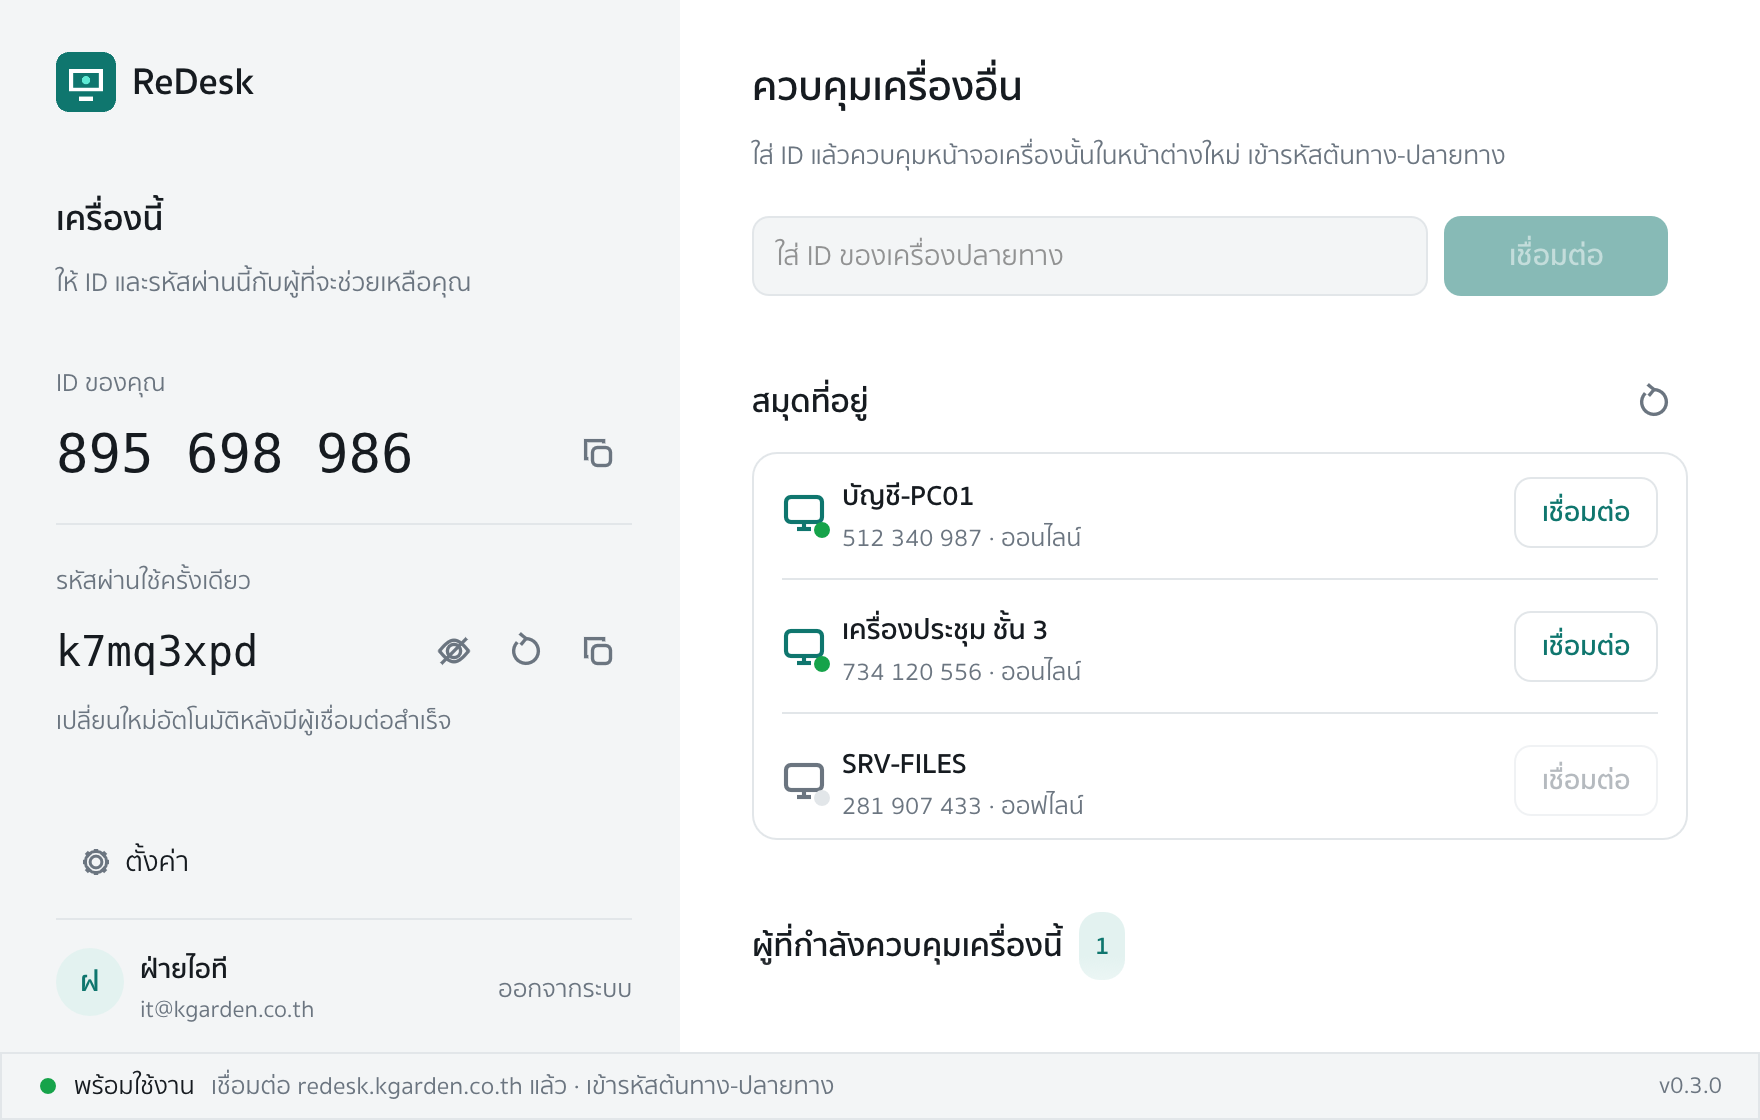
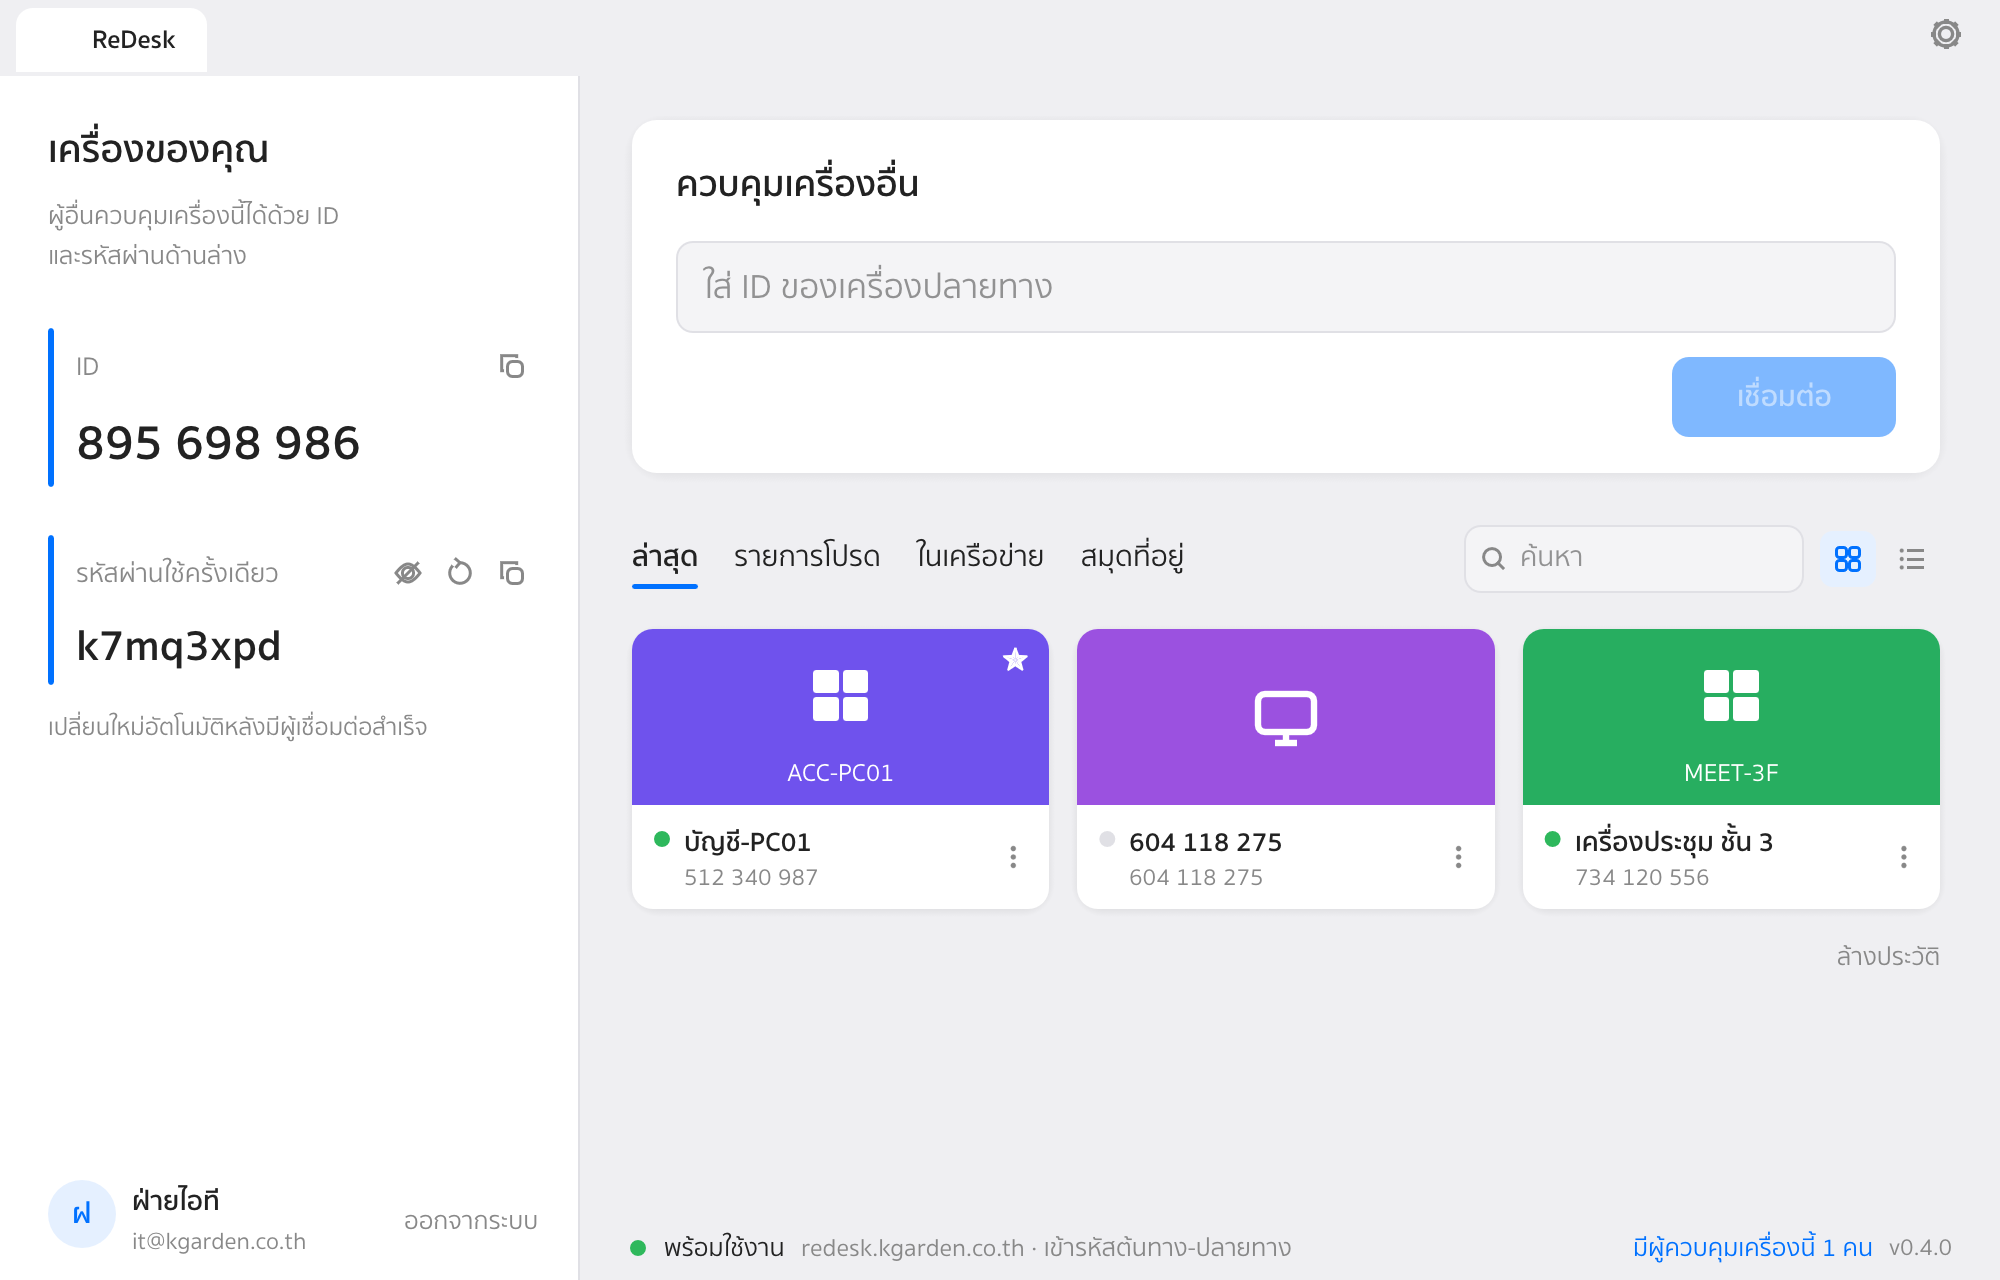
RustDesk-style UI across desktop app and web console; refresh screenshots

diff --git a/agent/src/ui.rs b/agent/src/ui.rs
@@ -383,32 +383,6 @@ fn toggle(ui: &mut Ui, on: &mut bool) -> Response {
     resp.on_hover_cursor(egui::CursorIcon::PointingHand)
 }
 
-/// Segmented control; returns true when the selection changed.
-fn segmented<T: PartialEq + Copy>(ui: &mut Ui, value: &mut T, options: &[(T, &str)], enabled: bool) -> bool {
-    let pal = Palette::of(ui);
-    let mut changed = false;
-    Frame::new().fill(pal.field).corner_radius(9).inner_margin(Margin::same(3)).show(ui, |ui| {
-        ui.spacing_mut().item_spacing.x = 2.0;
-        ui.horizontal(|ui| {
-            for (v, label) in options {
-                let selected = *value == *v;
-                let text = RichText::new(*label).font(if selected { semi(13.5) } else { FontId::proportional(13.5) });
-                let text = text.color(if !enabled { pal.muted.gamma_multiply(0.6) } else if selected { pal.fg } else { pal.muted });
-                let b = Button::new(text)
-                    .fill(if selected { pal.bg } else { Color32::TRANSPARENT })
-                    .stroke(if selected { Stroke::new(1.0, pal.line) } else { Stroke::NONE })
-                    .corner_radius(7)
-                    .min_size(vec2(0.0, 30.0));
-                if ui.add_enabled(enabled, b).clicked() && !selected {
-                    *value = *v;
-                    changed = true;
-                }
-            }
-        });
-    });
-    changed
-}
-
 fn label(ui: &mut Ui, text: &str) {
     let c = Palette::of(ui).muted;
     ui.label(RichText::new(text).size(12.5).color(c));
@@ -1774,6 +1748,11 @@ impl App {
         }
         ui.add_space(18.0);
         self.address_book(ui, agent);
+        // Without separate windows there is no connection-manager window: list sessions here.
+        if ui.ctx().embed_viewports() {
+            ui.add_space(24.0);
+            self.sessions_list(ui, agent);
+        }
     }
 
     fn book_entry(&self, id: &str) -> Option<&BookEntry> {

diff --git a/README.md b/README.md
@@ -52,7 +52,7 @@ REDESK_ADMIN_PASSWORD='change-me-now-123' make server
 
 เปิด http://localhost:21114 แล้วล็อกอิน `admin@redesk.local` (ถ้าไม่ตั้ง `REDESK_ADMIN_PASSWORD` รหัสสุ่มจะพิมพ์ใน log)
 
-**โปรแกรม ReDesk (หน้าต่าง + tray)** — แสดง ID/รหัสผ่านใช้ครั้งเดียว, สถานะ, ผู้ที่กำลังควบคุม (ตัดการเชื่อมต่อได้), กล่องอนุญาต/ปฏิเสธ และการตั้งค่า:
+**โปรแกรม ReDesk (หน้าต่าง + tray)** — หน้าตาแบบ RustDesk: แท็บด้านบน, แผง "เครื่องของคุณ" (ID/รหัสผ่านใช้ครั้งเดียว), การ์ด "ควบคุมเครื่องอื่น", รายชื่อเครื่องแบบการ์ดสีตาม ID หรือแบบรายการ, หน้าต่างการเชื่อมต่อเข้า (อนุญาต/ปฏิเสธ/ตัดการเชื่อมต่อ แยกแท็บต่อผู้ควบคุม) และหน้าตั้งค่าแบบเมนูซ้าย:
 
 | หน้าหลัก | คำขอควบคุม | ตั้งค่า | เข้าสู่ระบบ |
 |---|---|---|---|
@@ -61,6 +61,10 @@ REDESK_ADMIN_PASSWORD='change-me-now-123' make server
 **ควบคุมเครื่องในหน้าต่างโปรแกรม (เหมือน RustDesk):** กดเชื่อมต่อจากสมุดที่อยู่หรือใส่ ID แล้วจะเปิดหน้าต่างแยกต่อเครื่อง — ภาพหน้าจอ, เมาส์/คีย์บอร์ด (พิมพ์ไทยได้, Cmd บน Mac = Ctrl บน Windows), คลิปบอร์ดสองทาง, หลายจอ, ปรับคุณภาพ, Ctrl+Alt+Del, เต็มจอ และ**ลากไฟล์มาวางเพื่อส่ง** เข้ารหัส E2E แบบเดียวกับเว็บ (ตรวจลายเซ็นเครื่องปลายทาง)
 
 ![](docs/images/agent-viewer.png)
+
+หน้าต่างควบคุมใช้แถบเครื่องมือลอยกลางจอ (ปักหมุด/ซ่อนเองได้), เมนูจอ, คำสั่ง, คุณภาพภาพ, คีย์บอร์ด, ขนาดจริง 1:1 และหน้าต่างข้อมูลคุณภาพการเชื่อมต่อ — เว็บคอนโซลใช้รูปแบบเดียวกัน
+
+![](docs/images/web-devices.png)
 
 **วิดีโอ H.264 (0.4.0):** agent เข้ารหัสด้วย OpenH264 แบบปรับสำหรับภาพหน้าจอ ส่งเฉพาะเมื่อจอเปลี่ยน ทั้งแอปและเว็บ (WebCodecs) ถอดรหัสได้ ถ้าฝั่งใดไม่รองรับจะกลับไปใช้ JPEG อัตโนมัติ และแสดงเคอร์เซอร์ของเครื่องปลายทางให้ด้วย — รายละเอียดใน [PROTOCOL.md](docs/PROTOCOL.md#video-codecs)
 
